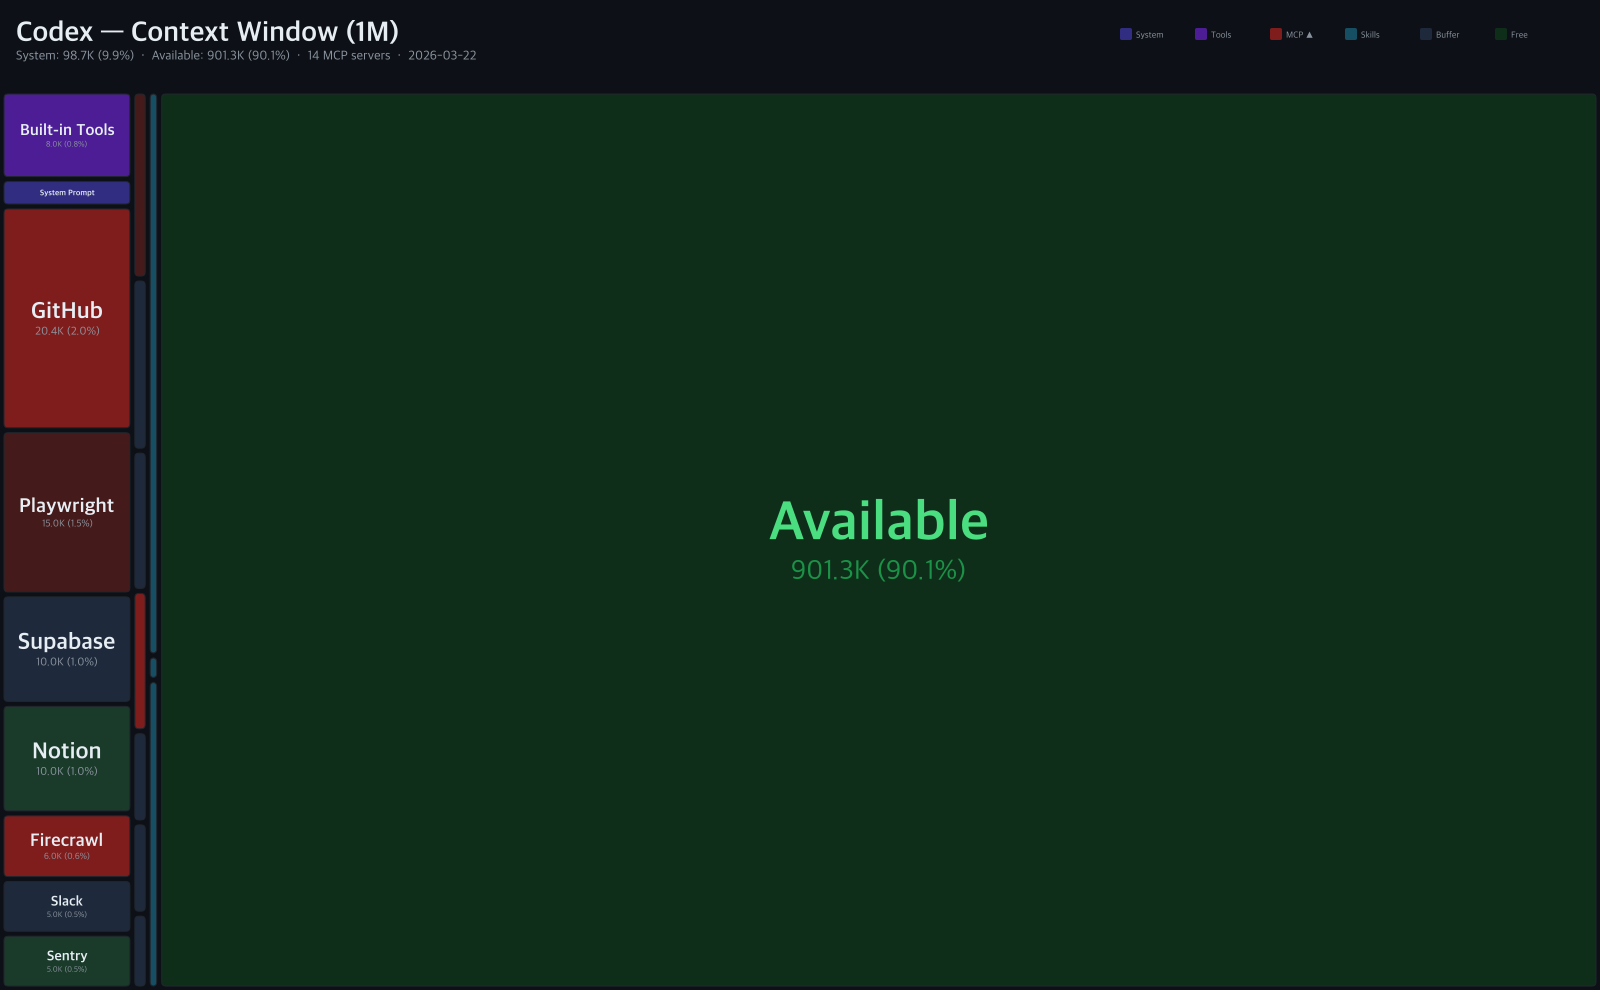
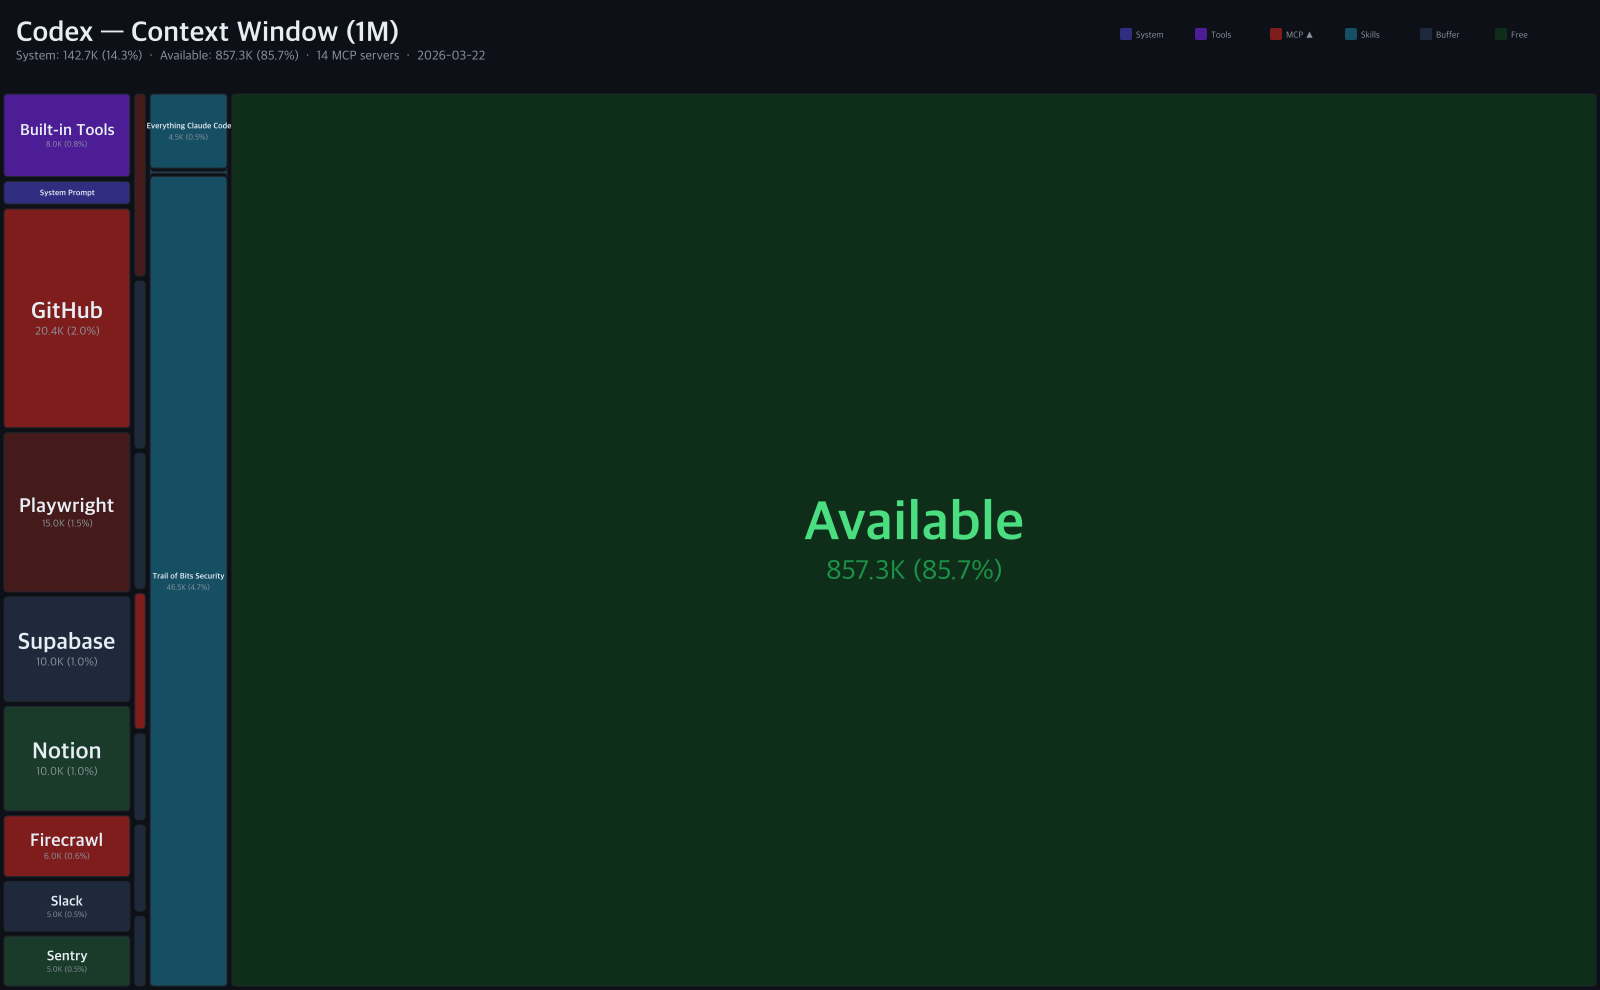
Split skill blocks: always-on vs on-invoke visualization
- Skill blocks show two regions: dark (always-on metadata) + light (on-invoke body)
- Sub-text shows "4.5K always-on · 120K on invoke" breakdown
- fullBodyTokens now crawled and stored for each skill pack
- Removed unused mockup images

Changed region(s): [[0.0938, 0.0909, 0.1562, 1.0], [0.4688, 0.4848, 0.6562, 0.6061], [0.0312, 0.0303, 0.3125, 0.0606]]

diff --git a/scripts/render-treemap.js b/scripts/render-treemap.js
@@ -117,10 +117,12 @@ function loadSkillData() {
   for (const file of readdirSync(skillDir).filter(f => f.endsWith('.json'))) {
     const data = JSON.parse(readFileSync(join(skillDir, file), 'utf-8'));
     const latest = data.versions?.[data.versions.length - 1];
-    if (latest && latest.alwaysOnTokens > 0) {
+    if (latest && (latest.alwaysOnTokens > 0 || latest.fullBodyTokens > 0)) {
       results.push({
         name: data.name,
-        tokens: latest.alwaysOnTokens,
+        alwaysOnTokens: latest.alwaysOnTokens || 0,
+        fullBodyTokens: latest.fullBodyTokens || 0,
+        tokens: (latest.alwaysOnTokens || 0) + (latest.fullBodyTokens || 0),
         skillCount: latest.skillCount,
       });
     }
@@ -160,6 +162,8 @@ function renderContextIndex(snapshot) {
       name: skill.name,
       displayName: skill.name,
       tokens: skill.tokens,
+      alwaysOnTokens: skill.alwaysOnTokens,
+      fullBodyTokens: skill.fullBodyTokens,
       tools: skill.skillCount,
       type: 'skill',
       change: { pct: 0 },
@@ -187,11 +191,37 @@ function renderContextIndex(snapshot) {
 
     const changePct = d.change?.pct || 0;
 
-    // Color: skills get teal, MCP gets red/green based on change
-    const bgColor = d.type === 'skill' ? '#164e63' : changeColor(changePct);
-    ctx.fillStyle = bgColor;
-    roundRect(ctx, x + 1, y + 1, w - 2, h - 2, 4);
-    ctx.fill();
+    // Skills: split block into always-on (dark) + on-invoke (lighter)
+    if (d.type === 'skill' && d.alwaysOnTokens > 0 && d.fullBodyTokens > 0) {
+      const totalSkillTokens = d.alwaysOnTokens + d.fullBodyTokens;
+      const alwaysRatio = d.alwaysOnTokens / totalSkillTokens;
+
+      // Draw on-invoke area (lighter, full block)
+      ctx.fillStyle = '#0e3a47';
+      roundRect(ctx, x + 1, y + 1, w - 2, h - 2, 4);
+      ctx.fill();
+
+      // Draw always-on area (darker, left portion)
+      const alwaysW = Math.max(8, (w - 2) * alwaysRatio);
+      ctx.fillStyle = '#164e63';
+      roundRect(ctx, x + 1, y + 1, alwaysW, h - 2, 4);
+      ctx.fill();
+
+      // Divider line
+      if (alwaysW < w - 10) {
+        ctx.strokeStyle = '#0d1117';
+        ctx.lineWidth = 2;
+        ctx.beginPath();
+        ctx.moveTo(x + 1 + alwaysW, y + 1);
+        ctx.lineTo(x + 1 + alwaysW, y + h - 1);
+        ctx.stroke();
+      }
+    } else {
+      const bgColor = d.type === 'skill' ? '#164e63' : changeColor(changePct);
+      ctx.fillStyle = bgColor;
+      roundRect(ctx, x + 1, y + 1, w - 2, h - 2, 4);
+      ctx.fill();
+    }
 
     ctx.strokeStyle = STYLE.border;
     ctx.lineWidth = 1;
@@ -211,9 +241,6 @@ function renderContextIndex(snapshot) {
     const shortName = d.displayName;
     const changeTxt = changePct > 0 ? `+${changePct}%` : changePct < 0 ? `${changePct}%` : '';
 
-    // Sub text: tokens for skills show skill count, MCP shows tool count
-    const typeLabel = d.type === 'skill' ? `${d.tools} skills` : '';
-
     if (innerH >= 28) {
       const nameFs = fitFontSize(ctx, shortName, innerW, innerH, 'bold', 0.85, 2);
       const showSub = innerH > nameFs * 1.6;
@@ -226,10 +253,15 @@ function renderContextIndex(snapshot) {
       ctx.fillText(shortName, cx, startY + nameFs * 0.85);
 
       if (showSub) {
-        const parts = [formatTokens(d.tokens)];
-        if (typeLabel) parts.push(typeLabel);
-        if (changeTxt) parts.push(changeTxt);
-        const subText = parts.join('  ');
+        let subText;
+        if (d.type === 'skill' && d.alwaysOnTokens > 0) {
+          // Show always-on vs on-invoke breakdown
+          subText = `${formatTokens(d.alwaysOnTokens)} always-on · ${formatTokens(d.fullBodyTokens || 0)} on invoke`;
+        } else {
+          const parts = [formatTokens(d.tokens)];
+          if (changeTxt) parts.push(changeTxt);
+          subText = parts.join('  ');
+        }
 
         setFont(ctx, subFs);
         ctx.fillStyle = changePct !== 0 ? changeBadgeColor(changePct) : STYLE.textSecondary;

diff --git a/scripts/crawl-skills.js b/scripts/crawl-skills.js
@@ -159,6 +159,7 @@ async function main() {
       }
 
       let totalAlwaysOn = 0;
+      let totalFullBody = 0;
       const skillDetails = [];
 
       for (const { name: skillName, path: skillPath } of skillPaths) {
@@ -166,9 +167,11 @@ async function main() {
 
         if (result) {
           totalAlwaysOn += result.alwaysOnTokens;
+          totalFullBody += result.fullTokens || 0;
           skillDetails.push({
             name: result.name || skillName,
             alwaysOnTokens: result.alwaysOnTokens,
+            fullTokens: result.fullTokens || 0,
             descriptionChars: result.descriptionChars,
             hasDisableModelInvocation: result.hasDisableModelInvocation,
           });
@@ -192,6 +195,7 @@ async function main() {
         date: today,
         skillCount: skillDetails.length,
         alwaysOnTokens: totalAlwaysOn,
+        fullBodyTokens: totalFullBody,
         skills: skillDetails,
         change,
       };
